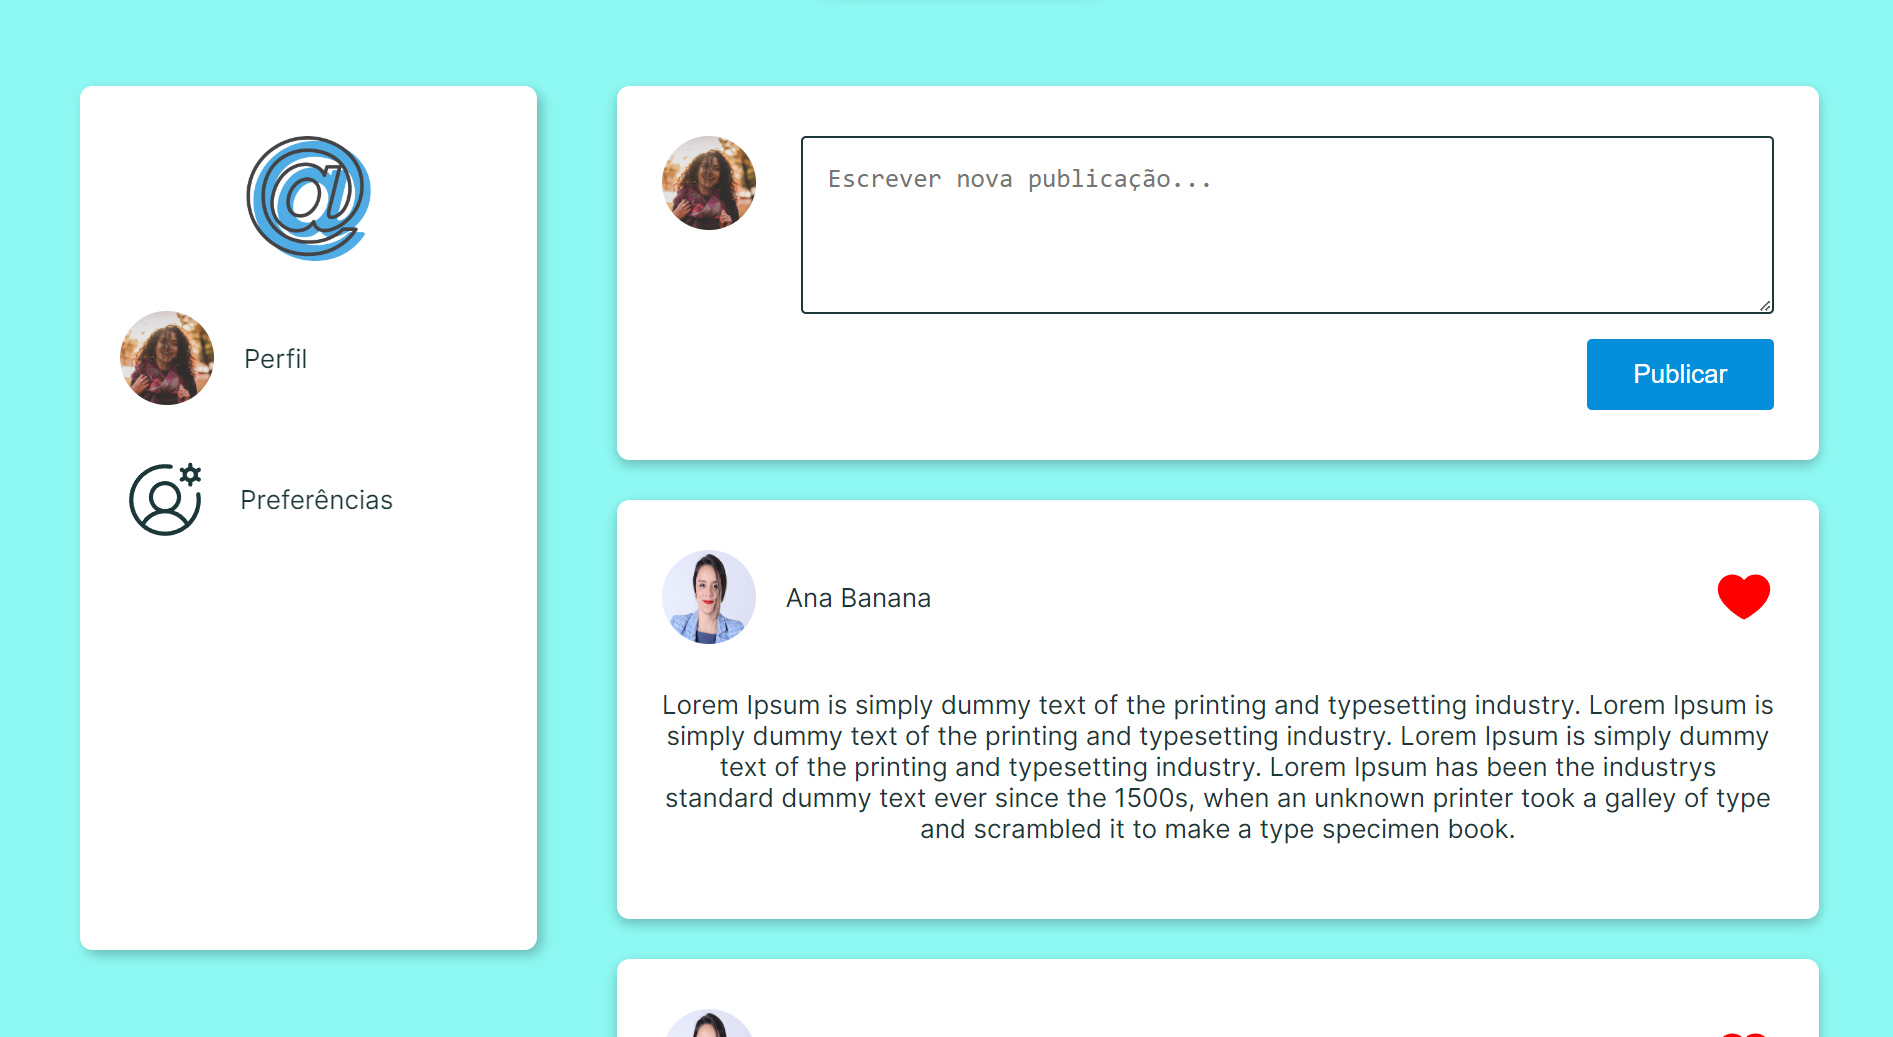
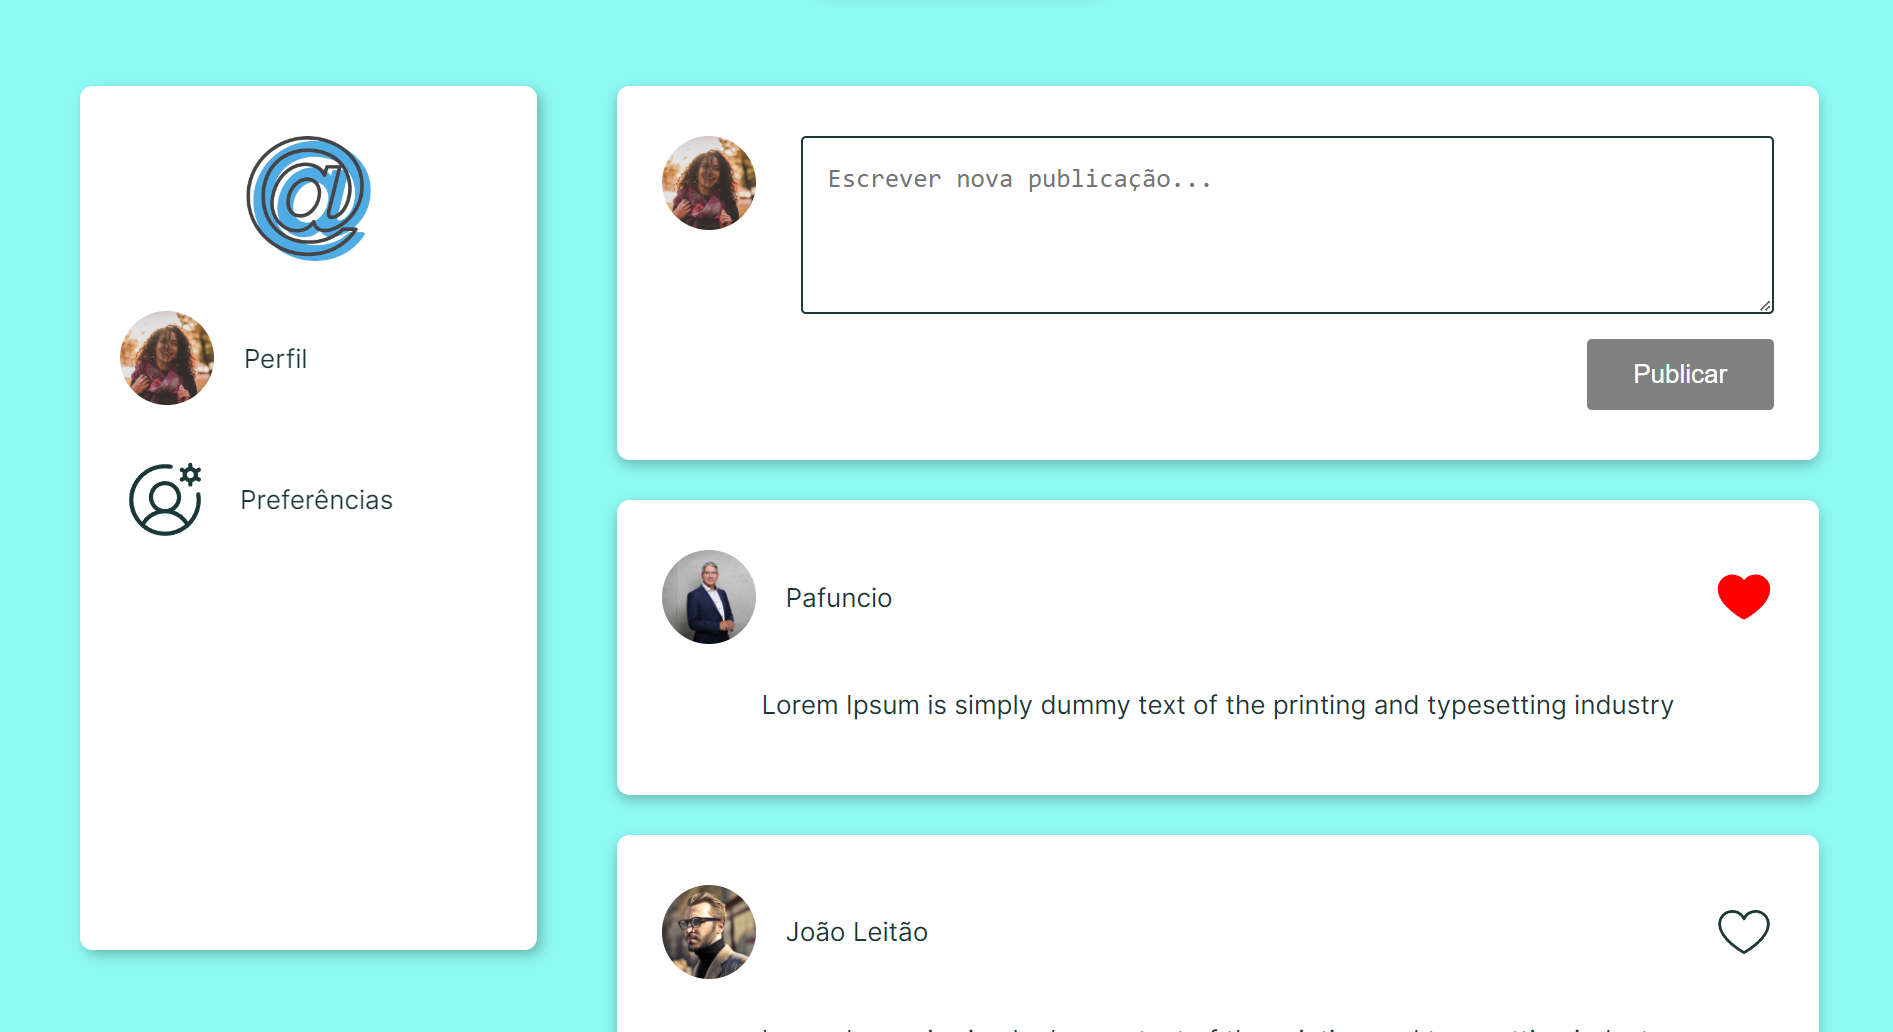
Finalizando projeto

diff --git a/src/pages/Home/Home.tsx b/src/pages/Home/Home.tsx
@@ -1,65 +1,82 @@
-import { UserCircleGear } from '@phosphor-icons/react';
-import logo from '../../assets/logo.png';
-import { MainHome } from './styles';
-import Publicacao from '../../components/Publicacao';
-import { Link } from 'react-router-dom';
-import { useContext, useEffect } from 'react';
-import { UserContext } from '../../context/UserContext';
-import { PubContext } from '../../context/PubContext';
+import { UserCircleGear } from "@phosphor-icons/react";
+import logo from "../../assets/logo.png";
+import { MainHome } from "./styles";
+import Publicacao from "../../components/Publicacao";
+import { Link } from "react-router-dom";
+import { ChangeEvent, useContext, useState } from "react";
+import { UserContext } from "../../context/UserContext";
+import { PubContext } from "../../context/PubContext";
 
-export function Home(){    
-    const { userData, userLogado } = useContext(UserContext);
-    const { pubData } = useContext(PubContext);
+export function Home() {
+  const { userData, userLogado } = useContext(UserContext);
+  const { pubData, addPub } = useContext(PubContext);
 
-    return (
-        <MainHome>
-            <aside>
-                <Link className='link' to='/'>
-                    <img className='logo' src={logo} alt="logo da Y" />
-                </Link>                
+  const [textNewPub, setTextNewPub] = useState<string>("");
 
-                <Link className='link perfil' to='/perfil'>
-                    <img src={userLogado.imgUser} alt="imagem do perfil do usuário" />
-                    <span>Perfil</span>
-                </Link>
+  const handleTextareaChange = (event: ChangeEvent<HTMLTextAreaElement>) => {
+    setTextNewPub(event.target.value);
+  };
 
-                <Link className='link preferencias' to='/preferencias'>
-                    <UserCircleGear size={72} weight="light" />
-                    <span>Preferências</span>
-                </Link>
-            </aside>
+  const handlePublish = () => {
+    if(textNewPub != ''){
+        addPub(userLogado.id, textNewPub);
+    }    
+  }
 
-            <section className='container-pub'>
-                <div className='nova-pub'>
-                    <img src={userLogado.imgUser} alt="imagem do perfil do usuário" />
-                    
-                    <div>
-                        <textarea cols={30} rows={4} placeholder='Escrever nova publicação...'></textarea>
-                        <button>Publicar</button>
-                    </div>
-                </div>
+  return (
+    <MainHome>
+      <aside>
+        <Link className="link" to="/">
+          <img className="logo" src={logo} alt="logo da Y" />
+        </Link>
 
-                {
-                    [...pubData].reverse().map((pub) => {
+        <Link className="link perfil" to="/perfil">
+          <img src={userLogado.imgUser} alt="imagem do perfil do usuário" />
+          <span>Perfil</span>
+        </Link>
 
-                        const userQueFezAPublicacao = userData.find(user => user.id === pub.idUser);
+        <Link className="link preferencias" to="/preferencias">
+          <UserCircleGear size={72} weight="light" />
+          <span>Preferências</span>
+        </Link>
+      </aside>
 
-                        if (userQueFezAPublicacao) {
-                            return (
-                                <Publicacao 
-                                    nome={userQueFezAPublicacao.name} 
-                                    isLiked={pub.isLiked} 
-                                    texto={pub.text}
-                                    imgProfile={userQueFezAPublicacao.imgUser}
-                                    key={pub.idUser}
-                                />
-                            );
-                        }
+      <section className="container-pub">
+        <div className="nova-pub">
+          <img src={userLogado.imgUser} alt="imagem do perfil do usuário" />
 
-                        return null;
-                    })
-                }
-            </section>
-        </MainHome>
-    )
+          <div>
+            <textarea
+              value={textNewPub}
+              onChange={handleTextareaChange}
+              cols={30}
+              rows={4}
+              placeholder="Escrever nova publicação..."
+            ></textarea>
+            <button onClick={handlePublish} className={textNewPub === '' ? 'disabled' : ''}>Publicar</button>
+          </div>
+        </div>
+
+        {pubData.map((pub, index) => {
+          const userQueFezAPublicacao = userData.find(
+            (user) => user.id === pub.idUser
+          );
+
+          if (userQueFezAPublicacao) {
+            return (
+              <Publicacao
+                nome={userQueFezAPublicacao.name}
+                isLiked={pub.isLiked}
+                texto={pub.text}
+                imgProfile={userQueFezAPublicacao.imgUser}
+                key={index}
+              />
+            );
+          }
+
+          return null;
+        })}
+      </section>
+    </MainHome>
+  );
 }

diff --git a/src/context/PubContext.tsx b/src/context/PubContext.tsx
@@ -3,6 +3,7 @@ import { IChildren, IPub } from "../utils/interface";
 
 interface IPubContext{
     pubData: IPub[];
+    addPub: (idUser: string, text: string) => void;
 }
 
 export const PubContext = createContext({} as IPubContext);
@@ -59,8 +60,19 @@ export function PubProvider({ children }: IChildren){
         ]
     );    
 
+    function addPub(idUser: string, text: string){
+        const newPub: IPub = {
+            idUser: idUser,
+            text: text,
+            isLiked: false
+        }
+
+        setPubData(prevPubData => [newPub, ...prevPubData]);
+        console.log(pubData)
+    }
+
     return(
-        <PubContext.Provider value={{ pubData }}>
+        <PubContext.Provider value={{ pubData, addPub }}>
             {children}
         </PubContext.Provider>
     )

diff --git a/src/pages/Perfil/Perfil.tsx b/src/pages/Perfil/Perfil.tsx
@@ -30,7 +30,7 @@ export function Perfil(){
 
             <section className='container-pub'>
                 {
-                    [...pubData].reverse().map((pub) => {
+                    pubData.map((pub) => {
                         if (pub.idUser == userLogado.id) {
                             return (
                                 <Publicacao 

diff --git a/src/pages/Home/styles.ts b/src/pages/Home/styles.ts
@@ -87,6 +87,11 @@ export const MainHome = styled.main`
                     width: 150px;
                     align-self: flex-end;
                 }
+
+                .disabled{
+                    cursor: inherit;
+                    background-color: gray;
+                }
             }
         }
     }  
